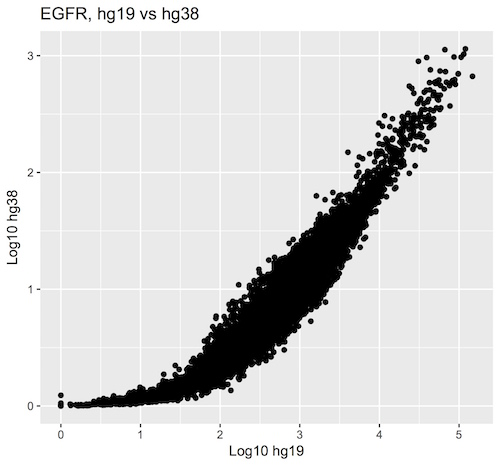
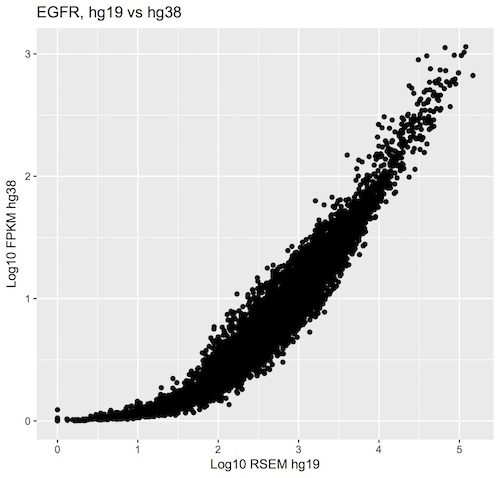
update to monthly query 0915

diff --git a/docs/source/sections/QueryOfTheMonthClub.rst b/docs/source/sections/QueryOfTheMonthClub.rst
@@ -13,21 +13,20 @@ email: dgibbs (at) systemsbiology (dot) org
 December, 2016
 ##############
 
-This month's query comes from our own Sheila Reynolds. Thanks Sheila!
+Comparing the TCGA hg19 and GDC hg38 gene expression data.
 
 Description
 -----------
-Sheila writes, "I wanted to have a look at our new hg38 TCGA gene expression
-table which is based on the newest data from the GDC (coming soon!).
-I was thinking about maybe picking one highly-variable gene and then doing a
-scatter-plot of the hg19 vs hg38 data to see how things looked. But once I got
-started I got more and more ambitious. I finally ended up with the following query
-which computes the correlation (both Pearson and Spearman's) between the hg19 and
-the hg38 expression values for each gene, and then calculates deciles across all
-of the correlation coefficients and finally outputs them as a short little table
-80% of the correlation coefficients are > 0.84, and the median is 0.93"
-
-The query took a grand total of 28.9s, and processed 34GB of data.
+This query compares gene expression builds from the TCGA hg19 RSEM and the
+new GDC hg38 FPKM (table coming soon!). Rather than look at one gene at
+a time, it's easy (and fast!) to look across all genes simultaneously.
+The following query includes gene reference tables and computes both
+Pearson and Spearman's correlation for each gene. After saving the results in a new
+table, we calculates deciles across all of the correlation coefficients and
+output a short summary table. We find that about 80% of the correlation
+coefficients are > 0.84, and the median is 0.93.
+The query took a grand total of 28.9s, and processed 34GB of data. As an example,
+we look at the expression data for EGFR. See the SQL and R code below.
 
 
 The BigQuery
@@ -174,6 +173,15 @@ Visualizations
 
 ------------
 
+.. figure:: query_figs/egfr_hg19_vs_hg38_ranked.jpg
+   :scale: 100
+   :align: center
+
+   This plot shows the ranked EFGR expression values for both TCGA hg19 and GDC hg38 sources.
+
+------------
+
+
 ------------
 
 Rscript
@@ -193,7 +201,7 @@ Newer bigrquery package versions support using standard SQL, so make sure you're
 
   # saving the above query as a string variable named 'q'
 
-  res1 <- query_exec(q, project='isb-cgc-xx-xyzw', useLegacySql = FALSE)
+  res1 <- query_exec(q, project='isb-cgc-02-abcd', useLegacySql = FALSE)
 
   dim(res1)
   # [1] 20119     3
@@ -232,6 +240,7 @@ Newer bigrquery package versions support using standard SQL, so make sure you're
     SELECT
       SamplesSubmitterID AS sampleID,
       Ensembl_gene_ID AS geneID,
+      DENSE_RANK() OVER (PARTITION BY Ensembl_gene_ID ORDER BY HTSeq__FPKM ASC) AS rankFPKM,
       HTSeq__FPKM AS expFPKM
     FROM
       `isb-cgc.hg38_data_previews.TCGA_GeneExpressionQuantification`
@@ -242,7 +251,8 @@ Newer bigrquery package versions support using standard SQL, so make sure you're
     SELECT
       SampleBarcode,
       HGNC_gene_symbol,
-      normalized_count,
+      normalized_count as expRSEM,
+      DENSE_RANK() OVER (PARTITION BY HGNC_gene_symbol ORDER BY normalized_count ASC) AS rankRSEM,
       Platform
     FROM
       `isb-cgc.tcga_201607_beta.mRNA_UNC_RSEM`
@@ -253,8 +263,10 @@ Newer bigrquery package versions support using standard SQL, so make sure you're
     SELECT
       hg38.geneID AS gene_id,
       hg19.HGNC_gene_symbol AS gene_name,
-      LOG10(hg38.expFPKM+1) as Log10_hg38,
-      LOG10(hg19.normalized_count+1) AS Log10_hg19
+      LOG10(hg38.expFPKM+1) as Log10_hg38_FPKM,
+      LOG10(hg19.expRSEM+1) AS Log10_hg19_RSEM,
+      rankRSEM,
+      rankFPKM
     FROM
       Hg19
     JOIN
@@ -264,12 +276,16 @@ Newer bigrquery package versions support using standard SQL, so make sure you're
     GROUP BY
       gene_id,
       gene_name,
-      Log10_hg38,
-      Log10_hg19"
+      Log10_hg38_FPKM,
+      Log10_hg19_RSEM,
+      rankRSEM,
+      rankFPKM"
 
-  result <- query_exec(q, project="isb-cgc-02-0001", useLegacySql=F)
+  result <- query_exec(q, project="isb-cgc-02-abcd", useLegacySql=F)
 
-  qplot(data=result, x=Log10_hg19, y=Log10_hg38, main="EGFR, hg19 vs hg38", xlab="Log10 hg19", ylab="Log10 hg38")
+  qplot(data=result, x=Log10_hg19_RSEM, y=Log10_hg38_FPKM, main="EGFR, hg19 vs hg38", xlab="Log10 RSEM hg19", ylab="Log10 FPKM hg38")
+
+  qplot(data=result, x=rankRSEM, y=rankFPKM, main="EGFR, hg19 vs hg38", xlab="Rank RSEM hg19", ylab="Rank FPKM hg38")
 
   # As an exercise to the reader, try plotting some other genes. Maybe genes
   # with both high and low correlations. What do you find?
